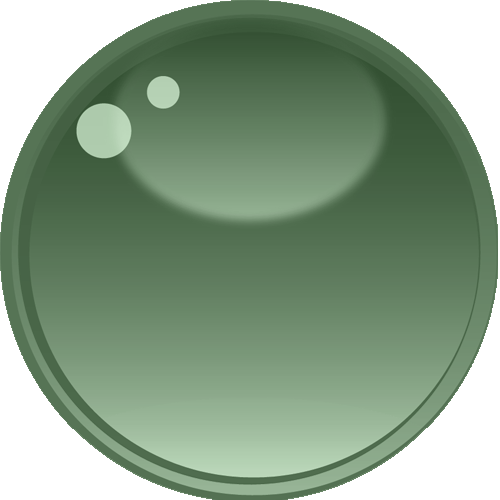
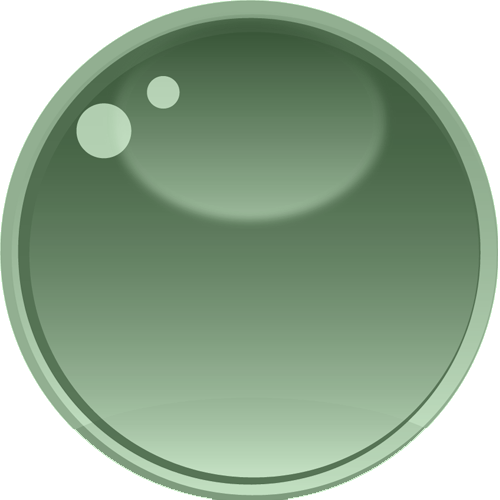
upd: proper colour switching menu

Changed region(s): [[0.0, 0.0, 1.0, 1.0]]

diff --git a/pool/src/components/drop-menu.tsx b/pool/src/components/drop-menu.tsx
@@ -1,15 +1,46 @@
 import React, { useState } from 'react';
 import Ball from '../engine/render/actors/ball';
+import styled from 'styled-components';
+import BouleGreen from '../assets/lesBoules/green-boule.png';
+import BouleMagenta from '../assets/lesBoules/magenta-boule.png';
+import BouleRed from '../assets/lesBoules/red-boule.png';
+import Close from '../assets/icon.png';
+
 
 interface MenuProps {
   x: number;
   y: number;
   onClose: () => void;
-  ballsR: any;
+  selectedBall: React.RefObject<{ball:Ball | null}>;
 }
 
-const CustomMenu: React.FC<MenuProps> = ({ x, y, onClose, ballsR }) => {
-  const balls = ballsR.current;
+const MenuContainer = styled.ul`
+    padding: 8px;
+    border: 1px solid black;
+    border-radius: 10px;
+    background: rgba(49, 54, 57, 0.9);
+    width:100%;
+    height:100%;
+    display: flex;
+    justify-content: left;
+    align-items: center;
+    gap: 10px;
+
+`
+const MenuItem = styled.li`
+    width:100%;
+    height:100%;
+    display: flex;
+    justify-content: left;
+    align-items: center;
+
+`
+
+const CustomMenu: React.FC<MenuProps> = ({ 
+    x, y, onClose, 
+    selectedBall 
+    }) => {
+  const ball = selectedBall.current? selectedBall.current.ball : null;
   const [isOpen, setIsOpen] = useState(true);
 
   const handleClick = () => {
@@ -17,30 +48,34 @@ const CustomMenu: React.FC<MenuProps> = ({ x, y, onClose, ballsR }) => {
     onClose();
   };
 
-  const handleItem = () => {
-    console.log(`Ball speed ${balls[0].getSpeed()}`);
-    balls[0].setSpeed(2);
+  const handleItem = (s: string) => {
+    ball?.swapSprite(s);
   };
   return isOpen ? (
     <div
-      style={{
+    style={{
         position: 'absolute',
         left: x,
         top: y,
-        backgroundColor: 'white',
-        border: '1px solid black',
-        padding: '8px',
-        width: '200px',
-        height: '100px',
+        background: 'transparent',
         zIndex: 3000,
-      }}
-      onClick={handleClick}
+    }}
+    onClick={handleClick}
     >
-      <ul>
-        <li onClick={handleItem}>Menu Item 1</li>
-        <li>Menu Item 2</li>
-        <li>Menu Item 3</li>
-      </ul>
+        <MenuContainer>
+            <MenuItem  onClick={()=>{handleItem(BouleGreen)}}>
+                <img src={BouleGreen} style={{width:30, height:30}}/>
+            </MenuItem >
+            <MenuItem  onClick={()=>{handleItem(BouleRed)}}>
+                <img src={BouleRed} style={{width:30, height:30}}/>
+            </MenuItem >
+            <MenuItem  onClick={()=>{handleItem(BouleMagenta)}}>
+                <img src={BouleMagenta} style={{width:30, height:30}}/>
+            </MenuItem >
+            <MenuItem  onClick={onClose}>
+                <img src={Close} style={{width:20, height:20}}/>
+            </MenuItem >
+        </MenuContainer>
     </div>
   ) : null;
 };

diff --git a/pool/src/engine/render/actors/ball.ts b/pool/src/engine/render/actors/ball.ts
@@ -1,6 +1,6 @@
 import Actor from "../actor";
 import {Sprite} from "../render-sprite";
-import Boule from '../../../assets/lesBoules/deep-magenta-boule.webp';
+import BouleRed from '../../../assets/lesBoules/red-boule.png';
 
 export default class Ball extends Actor {
     protected diameter: number = 50;
@@ -11,7 +11,7 @@ export default class Ball extends Actor {
     protected location: { x: number, y: number } = { x: 0, y: 0 };
 
     constructor(x: number, y: number, diameter: number) {
-        const sprite = new Sprite(x, x, diameter, diameter, Boule);
+        const sprite = new Sprite(x, y, diameter, diameter, BouleRed);
         super(sprite);
         this.diameter = diameter;
         this.location = { x:(x+diameter/2), y:(y+diameter/2) };
@@ -48,7 +48,11 @@ export default class Ball extends Actor {
 
     isCollidable = () => { return this.collidable; }
     setCollidable = (collidable: boolean) => { this.collidable = collidable; }
-
+    getSpriteCoords = () => { 
+        return ({
+            x: this.coords.x - this.getRadius(),
+            y: this.coords.y - this.getRadius()
+        }) }
 
     public surge = (speed: number) => {
         this.transpose(this.getXVelocity()*speed, this.getYVelocity()*speed);
@@ -57,6 +61,10 @@ export default class Ball extends Actor {
     private transpose = (dX: number, dY: number) => {
         this.location.x = this.location.x + dX;
         this.location.y = this.location.y + dY;
+    }
+
+    swapSprite = (image: string) => {
+        this.sprite = new Sprite(this.coords.x, this.coords.y, this.diameter, this.diameter, image);
     }
 
     step = () => {

diff --git a/pool/src/engine/Canvas.tsx b/pool/src/engine/Canvas.tsx
@@ -30,12 +30,14 @@ const FieldBorder = styled.div`
 `;
 interface CanvasProps {
   onContextMenu: (e: React.MouseEvent<HTMLCanvasElement>) => void;
-  ballsR: any
+  ballsR: React.RefObject<Ball[]>;
+  selectedBall: React.RefObject<{ball:Ball | null}>;
 }
 
 const Canvas: React.FC<CanvasProps> = ({ 
   onContextMenu,
-  ballsR
+  ballsR,
+  selectedBall
 }) => {
   const balls = ballsR.current;
   const bat = new Bat(30);
@@ -48,6 +50,7 @@ const Canvas: React.FC<CanvasProps> = ({
     const context = { ctx, canvas };
     if (!ctx) return;
     if (!canvas) return;
+    if (!balls) return;
     clearCanvas (ctx, canvas);
     renderCanvas(context, [balls[0].render, balls[1].render, balls[2].render, bat.render ]);
     detectCollision(balls);
@@ -58,12 +61,14 @@ const Canvas: React.FC<CanvasProps> = ({
     const context = { ctx, canvas };
     if (!ctx) return;
     if (!canvas) return;
+    if (!balls) return;
     balls.forEach(ball => ball.setContext(context));
     bat.setContext(context);
   },
   (canvas, ctx) => {
     if (!ctx) return;
     if (!canvas) return;
+    if (!balls) return;
 
     const handleMouseDown = (e: MouseEvent) => {
 
@@ -71,7 +76,10 @@ const Canvas: React.FC<CanvasProps> = ({
       const x = e.clientX - rect.left - bat.getRadius() / 2;
       const y = e.clientY - rect.top - bat.getRadius() / 2;
       console.log('click')
-      if (checkPosition(balls, x, y)) {
+      if (!selectedBall.current) return;
+      selectedBall.current.ball = checkPosition(balls, x, y)
+
+      if (selectedBall.current.ball !== null) {
         handleContextMenu(e);
         return;
       }

diff --git a/pool/src/App.tsx b/pool/src/App.tsx
@@ -22,22 +22,22 @@ function App() {
     setMenuCoordinates({ x: event.clientX, y: event.clientY });
   };
 
-  const bRef = useRef<Ball[]>([new Ball(10,10, 30), new Ball(100,33, 50), new Ball(200, 100, 80)])
-  const selectedRef = useRef<Ball | null>(null); 
+  const bRef = useRef<Ball[]>([new Ball(10,10, 50), new Ball(100,33, 70), new Ball(200, 100, 90)])
+  const selectedRef = useRef<{ball:Ball | null}>({ball:null}); 
 
   const closeMenu = () => {
     setMenuCoordinates(null);
   };
 
   const memoizedCanvas = useMemo(
-    () => <Canvas onContextMenu={handleContextMenu} ballsR={bRef}/>, 
-    []);
+    () => <Canvas onContextMenu={handleContextMenu} ballsR={bRef} selectedBall={selectedRef}/>, 
+    [selectedRef]);
 
   return (
     <Container>
       {memoizedCanvas}
       {menuCoordinates && (
-        <CustomMenu x={menuCoordinates.x} y={menuCoordinates.y} onClose={closeMenu} ballsR={bRef} />
+        <CustomMenu x={menuCoordinates.x} y={menuCoordinates.y} onClose={closeMenu} selectedBall={selectedRef} />
       )}
     </Container>
   )

diff --git a/pool/src/engine/utils/canvas-utility.ts b/pool/src/engine/utils/canvas-utility.ts
@@ -2,16 +2,16 @@ import { CanvasContext } from "./types";
 import Ball from "../render/actors/ball";
 
 
-export const checkPosition = (balls: Ball[], xT: number, yT: number): boolean => {
+export const checkPosition = (balls: Ball[], xT: number, yT: number): Ball|null => {
   for (const ball of balls) {
     const radius = ball.getRadius();
     const{x, y} = ball.getCoords();
     const distance = Math.sqrt((xT - x) ** 2 + (yT - y) ** 2);
-    if (distance <= radius) {
-      return true;
+    if (distance <= 5+radius) {
+      return ball;
     }
   }
-  return false;
+  return null;
 };
 
 
